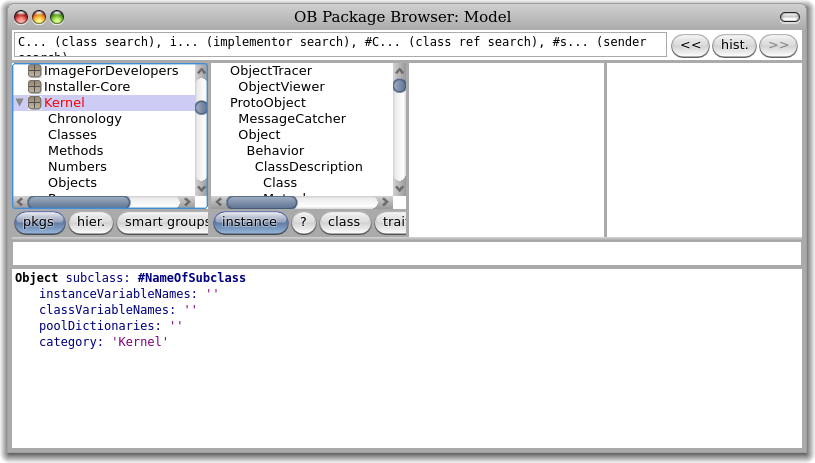
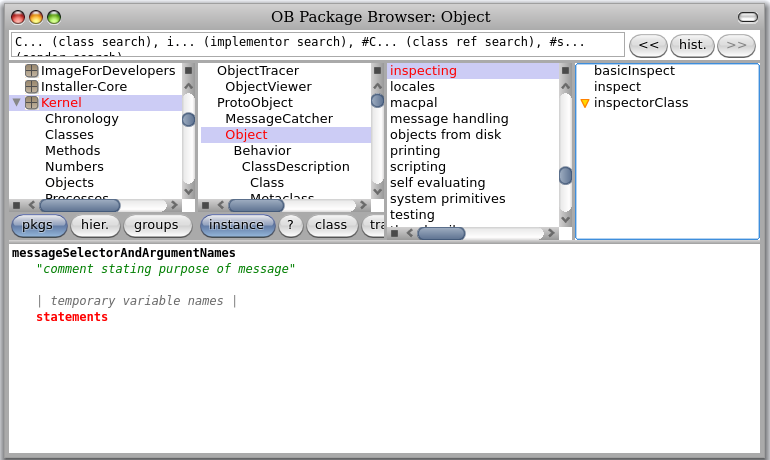
Updated method template figure.
git-svn-id: https://www.iam.unibe.ch/scg/svn_repos/SqueakByExample/PharoBook@28914 54883e8d-cf1d-0410-83d6-f114b9419f37

Changed region(s): [[0.0, 0.0, 1.0, 1.0]]

diff --git a/Environment/Environment.tex b/Environment/Environment.tex
@@ -158,7 +158,7 @@ Enter the name of the new thing in the dialog, and you are done: there is nothin
 
 In contrast, to create a new class or a new method, you will actually
 have to write some Smalltalk code.  If you \click the currently
-selected package (most left pane), the main
+selected package (in the left-most pane), the bottom
 browser pane will display a class creation template
 (\figref{SystemBrowserClassCreation}).  You create a new class by
 editing this template: replace \ct{Object} by the name of the existing
@@ -378,7 +378,7 @@ In fact, focussing two browsers on the same method and selecting \menu{byteCode}
 
 \subsubsection{Refactoring}
 
-The contextual menus offer a large number standard refactorings.
+The contextual menus offer a large number of standard refactorings.
 Simply \actclick in any of the four panes to see the currently available refactoring operations.
 See \figref{refactoring}.
 
